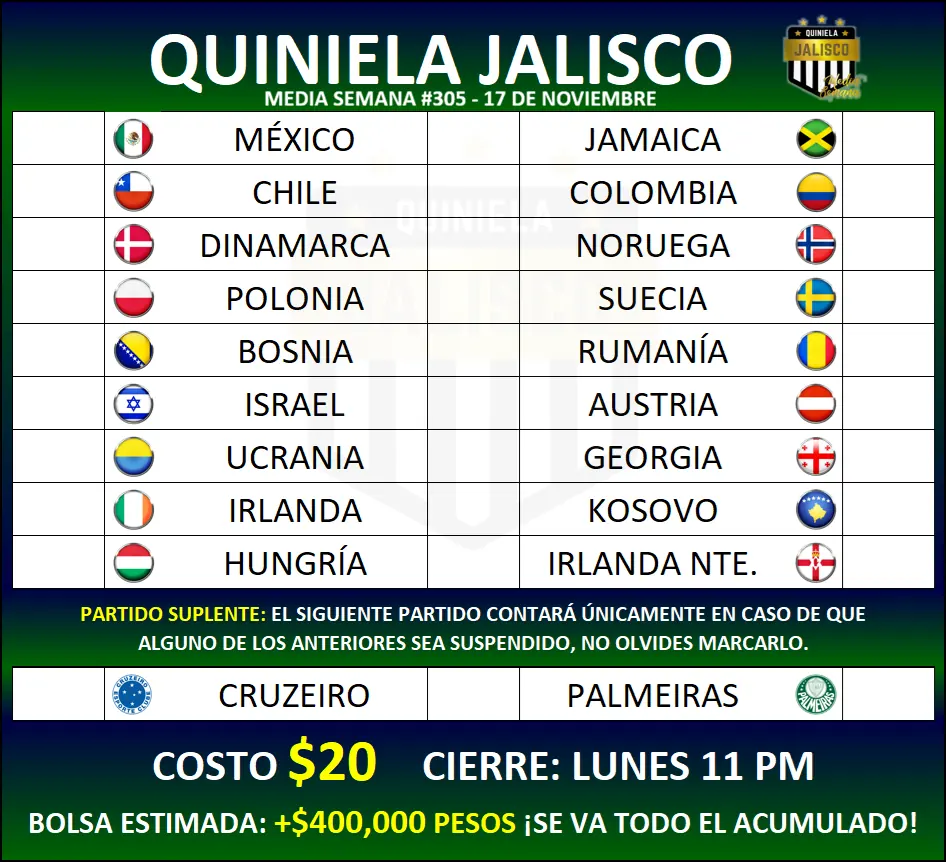
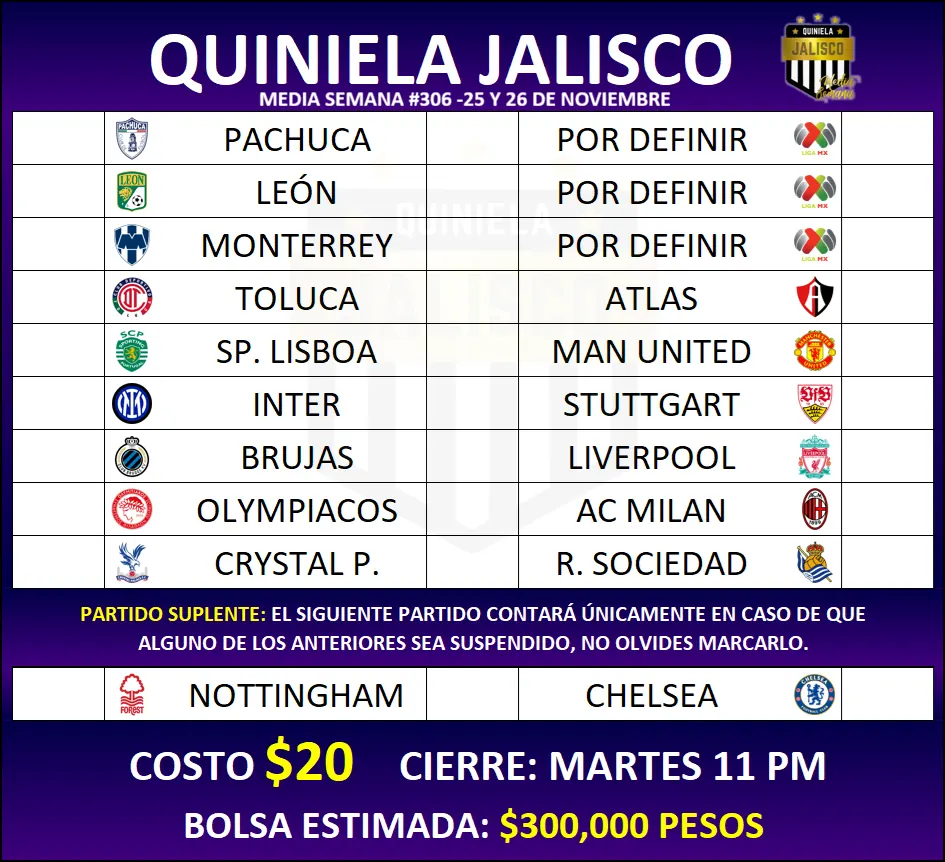
ofjof

diff --git a/var.js b/var.js
@@ -26,8 +26,8 @@ var QJ_CONFIG = {
         "sendBlockTo":0,
 
         "pricem":20,
-        "cierrem":"LUNES 11 PM",
-        "bolsam":"+$400,000 pesos\n¡Se reparte todo el acumulado!",
+        "cierrem":"MARTES 11 PM",
+        "bolsam":"$300,000 pesos",
         "suspIndexm":[],
         "sendBlockFromm":0,
         "sendBlockTom":0
